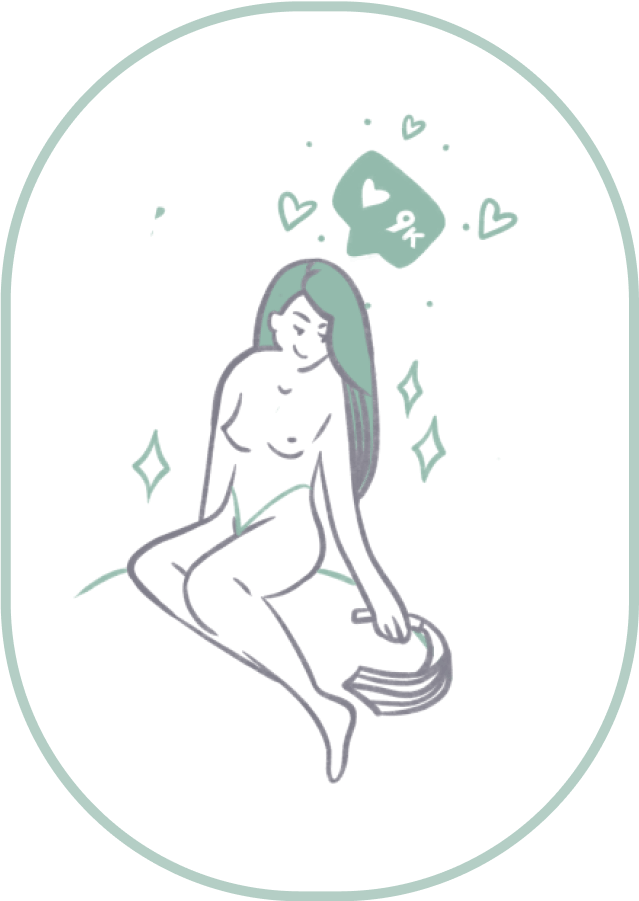
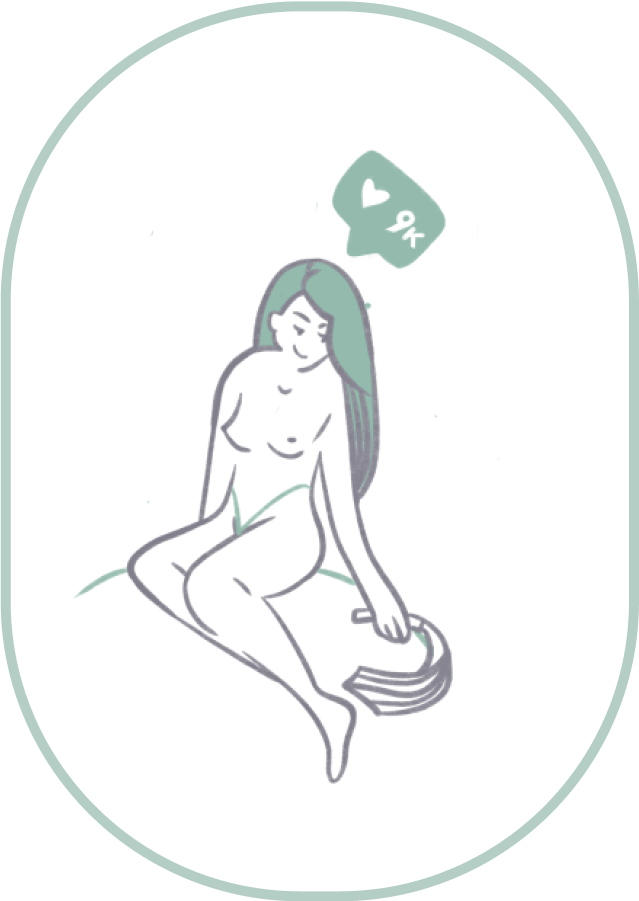
animation +1

diff --git a/dist/css/style.min.css b/dist/css/style.min.css
@@ -1,3 +1,11 @@
+@keyframes women {
+  from {
+    transform: scale(1);
+  }
+  to {
+    transform: scale(1.05);
+  }
+}
 @keyframes heart {
   from {
     transform: scale(1);
@@ -458,6 +466,19 @@ body {
   max-width: 1040px;
   margin: 0 auto;
   grid-template-columns: 1fr 320px 1fr;
+}
+.mission__img-wrapper {
+  position: relative;
+}
+.mission__img-wrapper:before {
+  content: "";
+  position: absolute;
+  top: 0;
+  left: 0;
+  width: 100%;
+  height: 100%;
+  background: url("../img/mission-women-decor-x2.min.png") no-repeat 50% 50%/contain;
+  animation: women 1.2s infinite alternate ease-in;
 }
 .mission__img {
   width: 100%;

diff --git a/src/scss/components/mission.scss b/src/scss/components/mission.scss
@@ -12,6 +12,21 @@
         grid-template-columns: 1fr 320px 1fr;
     }
 
+    &__img-wrapper {
+        position: relative;
+
+        &:before {
+			content: "";
+			position: absolute;
+			top: 0;
+			left: 0;
+			width: 100%;
+			height: 100%;
+			background: url("../img/mission-women-decor-x2.min.png") no-repeat 50% 50% /contain;
+			animation: women 1.2s infinite alternate ease-in;
+		}
+    }
+
     &__img {
         width: 100%;
         height: auto;

diff --git a/src/scss/helpers/animations.scss b/src/scss/helpers/animations.scss
@@ -1,3 +1,12 @@
+@keyframes women {
+	from {
+		transform: scale(1);
+	}
+	to {
+		transform: scale(1.05);
+	}
+}
+
 @keyframes heart {
 	from {
 		transform: scale(1);
